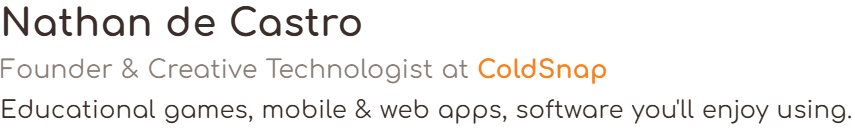
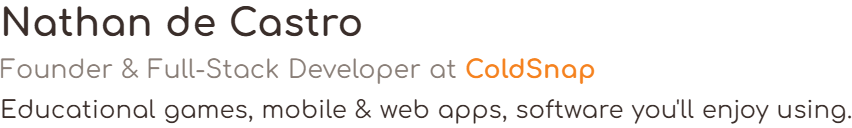
signatures: new title Founder & Full-Stack Developer, Winston's own blue signature; nathandecastro.com job title

Changed region(s): [[0.1526, 0.4375, 0.7324, 0.6562]]

diff --git a/coldsnap/assets/email/signature.html b/coldsnap/assets/email/signature.html
@@ -4,33 +4,36 @@
 <meta charset="utf-8">
 <meta name="viewport" content="width=device-width, initial-scale=1">
 <meta name="robots" content="noindex, nofollow">
-<title>Email signature</title>
+<title>Email signatures</title>
 <style>
-  /* Only for this helper page. The signature itself (between the SIGNATURE markers) uses tables and
-     inline styles only: that is all Gmail and Outlook keep. Its text and buttons are PNGs drawn in
-     Cooldown Sans (tools/email-signature/render.py), since mail clients drop web fonts. */
+  /* Only for this helper page. Each signature (between its markers) uses tables and inline styles
+     only: that is all Gmail and Outlook keep. Text and buttons are PNGs drawn in Cooldown Sans
+     (tools/email-signature/render.py), since mail clients drop web fonts. Claude's mail.py and the
+     home.coldsnap.fr draft sender read the signatures from this page. */
   body { margin: 0; padding: 24px 16px 48px; background: #f4f1ec; font-family: "Segoe UI", Arial, sans-serif; color: #3a2e2a; }
-  .help { max-width: 680px; margin: 0 auto 20px; font-size: 14px; line-height: 1.5; }
-  .help h1 { font-size: 18px; margin: 0 0 8px; }
-  .help ol { margin: 10px 0 12px; padding-left: 20px; }
-  .copy { font: inherit; font-weight: 600; padding: 10px 18px; border: 0; border-radius: 999px; background: #f5821f; color: #fff; cursor: pointer; }
+  .help, .frame { max-width: 640px; margin: 0 auto; }
+  .help { font-size: 14px; line-height: 1.5; margin-bottom: 14px; }
+  .help h1 { font-size: 18px; margin: 0 0 6px; }
+  .help h2 { font-size: 15px; margin: 26px 0 6px; }
+  .help ol { margin: 8px 0 0; padding-left: 20px; }
+  .copy { font: inherit; font-weight: 600; padding: 9px 16px; border: 0; border-radius: 999px; background: #f5821f; color: #fff; cursor: pointer; }
+  .copy.w { background: #4fa8bb; }
   .done { margin-left: 10px; color: #2e8b57; font-weight: 600; }
-  .frame { max-width: 680px; margin: 0 auto; background: #fff; border-radius: 12px; padding: 16px; overflow-x: auto; }
+  .frame { background: #fff; border-radius: 12px; padding: 16px; overflow-x: auto; }
 </style>
 </head>
 <body>
 <div class="help">
-  <h1>Email signature: Nathan de Castro, ColdSnap</h1>
-  <button class="copy" type="button" id="copy">Copy the signature</button><span class="done" id="done" hidden>Copied</span>
+  <h1>ColdSnap email signatures</h1>
+  To use one: press its Copy button, then paste it.
   <ol>
-    <li><b>Gmail</b> (on a computer): Settings → See all settings → General → Signature → Create new → click in the box → Ctrl+V → Save changes at the bottom. Then pick it under "Signature defaults", for each "From" address.</li>
+    <li><b>Gmail</b> (on a computer): Settings → See all settings → General → Signature → Create new → click in the box → Ctrl+V → Save changes at the bottom. Under "Signature defaults", pick it for each "From" address.</li>
     <li><b>Outlook</b>: Settings → Mail → Compose and reply (new Outlook / web), or File → Options → Mail → Signatures (classic) → New → Ctrl+V → Save.</li>
   </ol>
-  Pictures load from coldsnap.fr, so the signature looks the same wherever the mail is read. The phone,
-  email and site buttons are real links.
+  <h2>Nathan (nathan@coldsnap.fr and his personal address)</h2>
+  <button class="copy" type="button" data-copy="nathan">Copy Nathan's signature</button><span class="done" hidden>Copied</span>
 </div>
-
-<div class="frame">
+<div class="frame" id="nathan">
 <!-- SIGNATURE START -->
 <table cellpadding="0" cellspacing="0" border="0" role="presentation" style="border-collapse:separate;background-color:#fdf3e9;border-radius:16px;font-family:'Cooldown Sans','Segoe UI',Calibri,Arial,sans-serif;">
   <tr>
@@ -38,7 +41,7 @@
       <a href="https://coldsnap.fr" style="text-decoration:none;"><img src="https://coldsnap.fr/assets/email/nathan-wizard.png" width="72" height="72" alt="ColdSnap" style="display:block;width:72px;height:72px;border:0;border-radius:36px;"></a>
     </td>
     <td valign="middle" style="padding:11px 16px 11px 10px;">
-      <a href="https://coldsnap.fr" style="text-decoration:none;"><img src="https://coldsnap.fr/assets/email/sig-text.png" width="426" height="64" alt="Nathan de Castro, Founder &amp; Creative Technologist at ColdSnap. Educational games, mobile &amp; web apps, software you'll enjoy using." style="display:block;width:426px;max-width:100%;height:auto;border:0;"></a>
+      <a href="https://coldsnap.fr" style="text-decoration:none;"><img src="https://coldsnap.fr/assets/email/sig-text.png" width="426" height="64" alt="Nathan de Castro, Founder &amp; Full-Stack Developer at ColdSnap. Educational games, mobile &amp; web apps, software you'll enjoy using." style="display:block;width:426px;max-width:100%;height:auto;border:0;"></a>
       <table cellpadding="0" cellspacing="0" border="0" role="presentation" style="margin-top:8px;border-collapse:collapse;">
         <tr>
           <td style="padding:0 7px 0 0;"><a href="tel:+33627648028" style="text-decoration:none;"><img src="https://coldsnap.fr/assets/email/sig-phone.png" width="129" height="26" alt="+33 6 27 64 80 28" style="display:block;width:129px;height:26px;border:0;"></a></td>
@@ -52,19 +55,46 @@
 <!-- SIGNATURE END -->
 </div>
 
+<div class="help">
+  <h2>Winston (winston@coldsnap.fr, Claude's sender name)</h2>
+  <button class="copy w" type="button" data-copy="winston">Copy Winston's signature</button><span class="done" hidden>Copied</span>
+</div>
+<div class="frame" id="winston">
+<!-- WINSTON SIGNATURE START -->
+<table cellpadding="0" cellspacing="0" border="0" role="presentation" style="border-collapse:separate;background-color:#e8f6fa;border-radius:16px;font-family:'Cooldown Sans','Segoe UI',Calibri,Arial,sans-serif;">
+  <tr>
+    <td valign="middle" style="padding:12px 4px 12px 14px;">
+      <a href="https://coldsnap.fr" style="text-decoration:none;"><img src="https://coldsnap.fr/assets/email/nathan-wizard.png" width="60" height="60" alt="ColdSnap" style="display:block;width:60px;height:60px;border:0;border-radius:30px;"></a>
+    </td>
+    <td valign="middle" style="padding:11px 16px 11px 10px;">
+      <a href="https://coldsnap.fr" style="text-decoration:none;"><img src="https://coldsnap.fr/assets/email/sig-w-text.png" width="499" height="44" alt="Winston, ColdSnap. Educational games, mobile &amp; web apps, software you'll enjoy using." style="display:block;width:499px;max-width:100%;height:auto;border:0;"></a>
+      <table cellpadding="0" cellspacing="0" border="0" role="presentation" style="margin-top:8px;border-collapse:collapse;">
+        <tr>
+          <td style="padding:0 7px 0 0;"><a href="mailto:contact@coldsnap.fr" style="text-decoration:none;"><img src="https://coldsnap.fr/assets/email/sig-w-mail.png" width="159" height="26" alt="contact@coldsnap.fr" style="display:block;width:159px;height:26px;border:0;"></a></td>
+          <td style="padding:0;"><a href="https://coldsnap.fr" style="text-decoration:none;"><img src="https://coldsnap.fr/assets/email/sig-w-site.png" width="97" height="26" alt="coldsnap.fr" style="display:block;width:97px;height:26px;border:0;"></a></td>
+        </tr>
+      </table>
+    </td>
+  </tr>
+</table>
+<!-- WINSTON SIGNATURE END -->
+</div>
+
 <script>
-  // Copies the signature as rich text (what Gmail and Outlook paste), by selecting it like a mouse would.
-  document.getElementById('copy').addEventListener('click', () => {
-    const r = document.createRange();
-    r.selectNode(document.querySelector('.frame > table'));
-    const s = getSelection();
-    s.removeAllRanges();
-    s.addRange(r);
-    const ok = document.execCommand('copy');
-    s.removeAllRanges();
-    document.getElementById('done').hidden = !ok;
-    if (!ok) alert('Copy failed: select the signature with the mouse and press Ctrl+C.');
-  });
+  // Copies a signature as rich text (what Gmail and Outlook paste), by selecting it like a mouse would.
+  for (const b of document.querySelectorAll('[data-copy]')) {
+    b.addEventListener('click', () => {
+      const r = document.createRange();
+      r.selectNode(document.querySelector('#' + b.dataset.copy + ' > table'));
+      const s = getSelection();
+      s.removeAllRanges();
+      s.addRange(r);
+      const ok = document.execCommand('copy');
+      s.removeAllRanges();
+      b.nextElementSibling.hidden = !ok;
+      if (!ok) alert('Copy failed: select the signature with the mouse and press Ctrl+C.');
+    });
+  }
 </script>
 </body>
 </html>

diff --git a/tools/email-signature/render.html b/tools/email-signature/render.html
@@ -18,22 +18,35 @@
   .tag { font-size: 12px; line-height: 17px; color: #3a2e2a; padding-top: 3px; }
   .pill { height: 26px; line-height: 26px; padding: 0 12px; border-radius: 13px; font-size: 12px; font-weight: 600; white-space: nowrap; background: #fff; color: #3a2e2a; }
   .pill.go { background: #f5821f; color: #fff; font-weight: 700; }
+  /* Winston (Claude's sender name): same layout, ColdSnap's ice/blue side of the palette. */
+  .w .name { color: #1b2333; }
+  .w .tag { color: #3d4a5c; }
+  .w .pill { color: #1b2333; }
+  .w .pill.go { background: #4fa8bb; color: #fff; }
 </style>
 </head>
 <body>
   <div class="row"><div class="piece" id="text">
     <div class="name">Nathan de Castro</div>
-    <div class="title">Founder &amp; Creative Technologist at <b>ColdSnap</b></div>
+    <div class="title">Founder &amp; Full-Stack Developer at <b>ColdSnap</b></div>
     <div class="tag">Educational games, mobile &amp; web apps, software you'll enjoy using.</div>
   </div></div>
   <div class="row"><div class="piece pill" id="phone">+33 6 27 64 80 28</div></div>
   <div class="row"><div class="piece pill" id="mail">contact@coldsnap.fr</div></div>
   <div class="row"><div class="piece pill go" id="site">coldsnap.fr</div></div>
+  <div class="w">
+    <div class="row"><div class="piece" id="w-text">
+      <div class="name">Winston</div>
+      <div class="tag">ColdSnap · Educational games, mobile &amp; web apps, software you'll enjoy using.</div>
+    </div></div>
+    <div class="row"><div class="piece pill" id="w-mail">contact@coldsnap.fr</div></div>
+    <div class="row"><div class="piece pill go" id="w-site">coldsnap.fr</div></div>
+  </div>
   <pre id="rects"></pre>
   <script>
     document.fonts.ready.then(() => {
       const out = {};
-      for (const id of ['text', 'phone', 'mail', 'site']) {
+      for (const id of ['text', 'phone', 'mail', 'site', 'w-text', 'w-mail', 'w-site']) {
         const r = document.getElementById(id).getBoundingClientRect();
         out[id] = { x: r.left, y: r.top, w: r.width, h: r.height };
       }

diff --git a/index.html b/index.html
@@ -23,7 +23,7 @@
       "@type": "Person",
       "name": "Nathan de Castro",
       "url": "https://nathandecastro.com",
-      "jobTitle": "Software Developer & Creative Technologist",
+      "jobTitle": "Founder & Full-Stack Developer at ColdSnap",
       "email": "decastronathan@gmail.com",
       "sameAs": [
         "https://www.linkedin.com/in/nathan-de-castro-750439117/",

diff --git a/tools/email-signature/render.py b/tools/email-signature/render.py
@@ -20,7 +20,7 @@ OUT = ROOT / "coldsnap" / "assets" / "email"
 EDGE = r"C:\Program Files (x86)\Microsoft\Edge\Application\msedge.exe"
 PAGE = (HERE / "render.html").as_uri()
 SCALE = 2
-W, H = 640, 420
+W, H = 640, 640
 
 common = [EDGE, "--headless=new", "--disable-gpu", "--hide-scrollbars", "--virtual-time-budget=4000",
           f"--window-size={W},{H}", f"--force-device-scale-factor={SCALE}", "--allow-file-access-from-files"]
